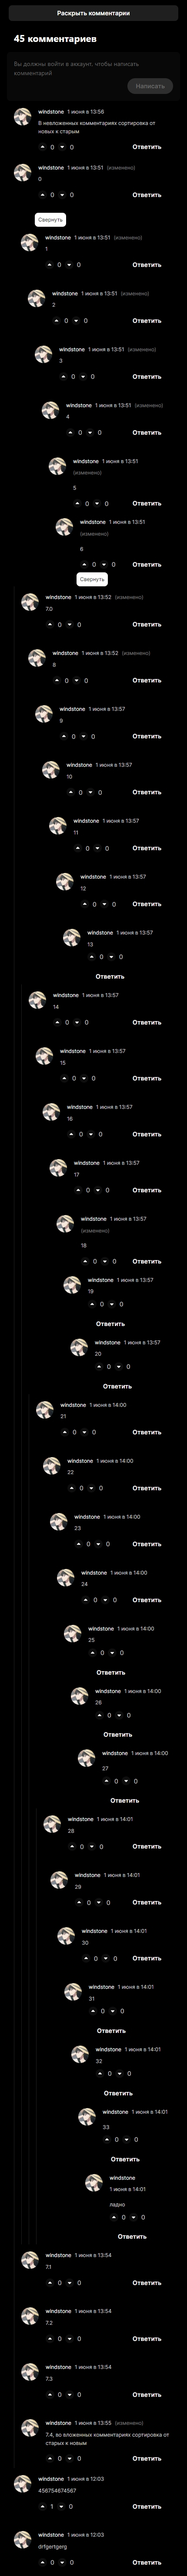
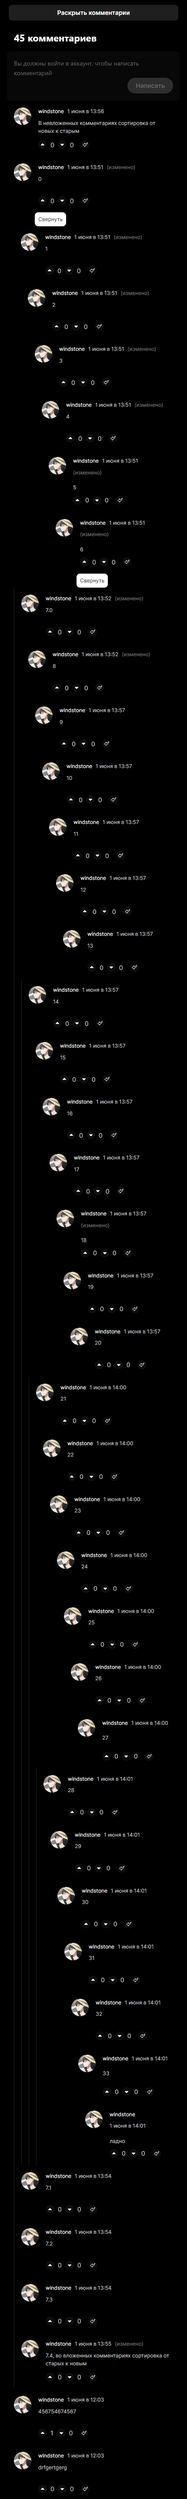
feat: don't do anything with comment on edit if edited message and current comment message are equal

diff --git a/src/components/Comments/Comment/Comment.tsx b/src/components/Comments/Comment/Comment.tsx
@@ -72,6 +72,10 @@ export function Comment({
     }
 
     async function handleMessageEdit({ uuid, message }: { uuid: string, message?: string }) {
+        if (comment.message === message) {
+            return setIsEditing(false);
+        }
+
         const mutationQueryKey = isChild ? comment.parentuuid : comment.title;
 
         message = message ?? '';
